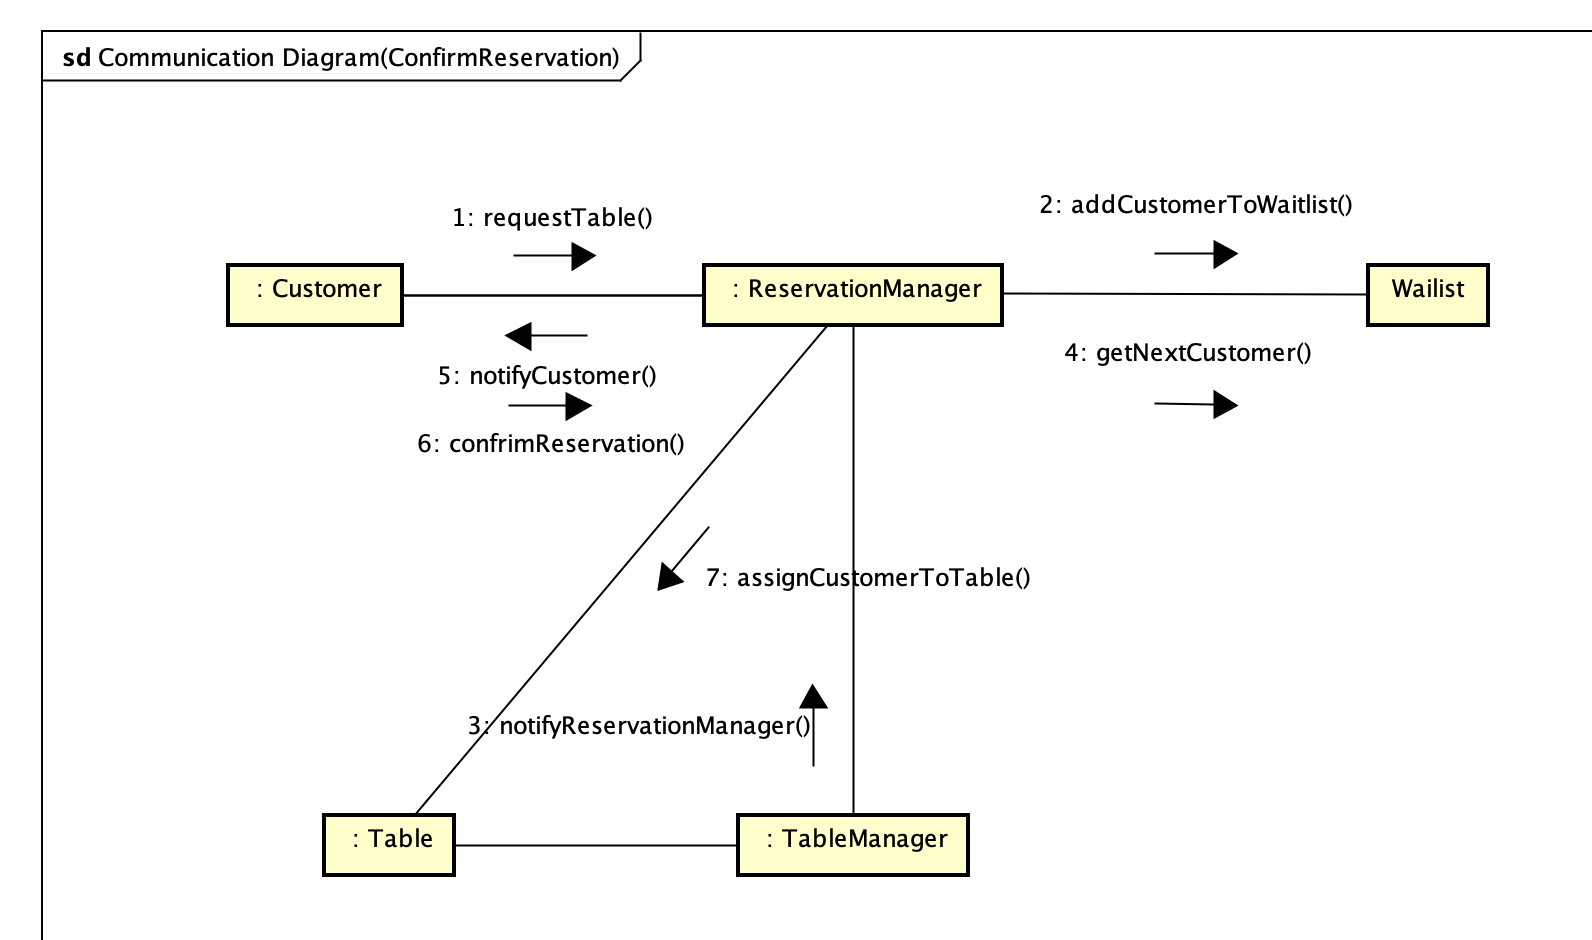
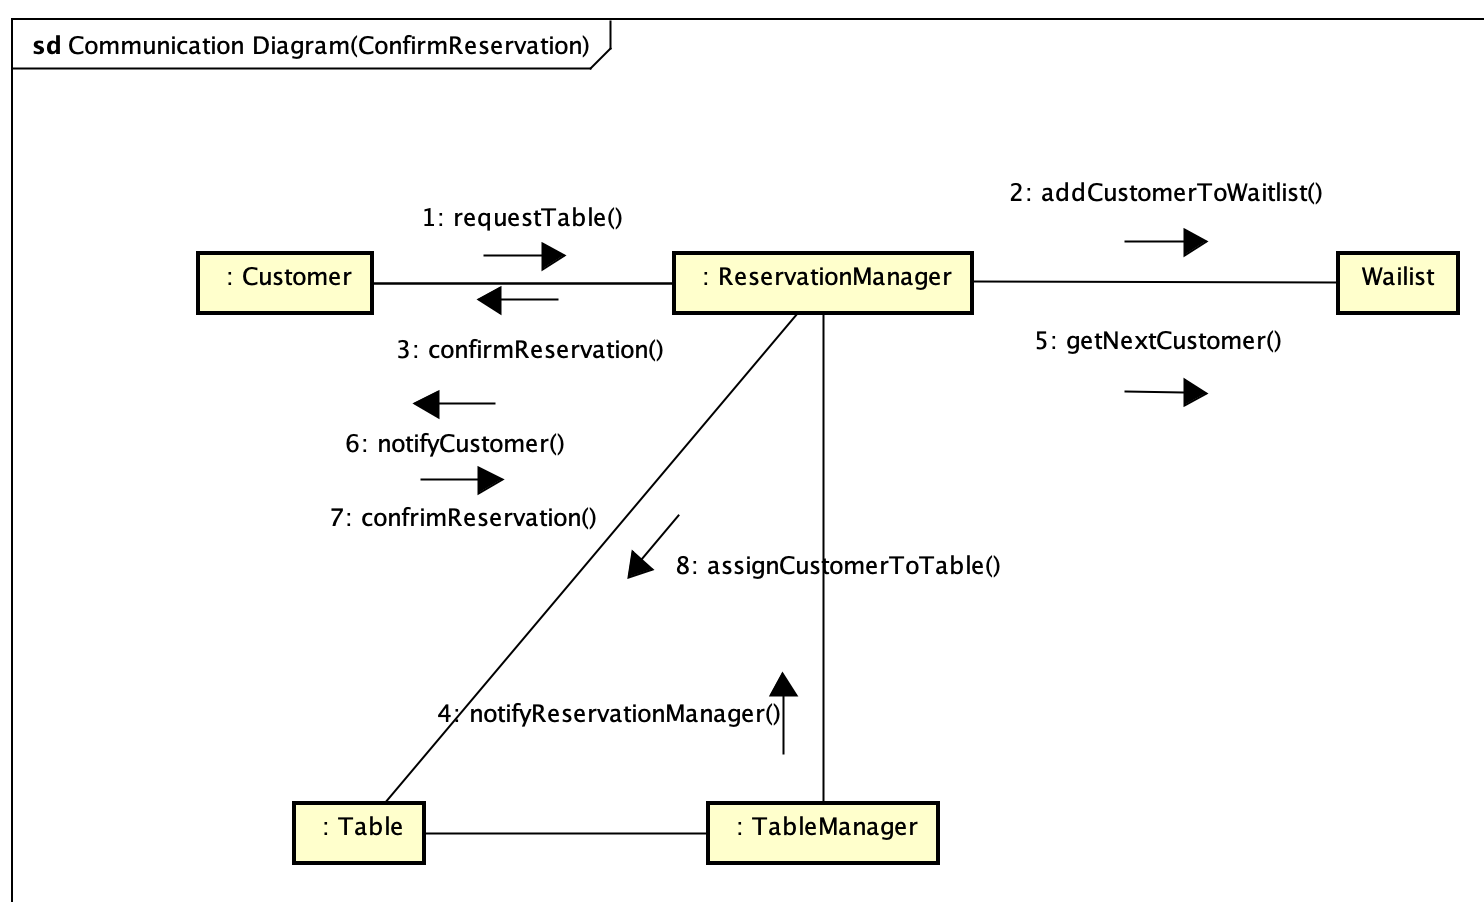
lab4

diff --git a/lab4/output/README.md b/lab4/output/README.md
@@ -16,7 +16,8 @@ ReservationManager
 Responsibilities:  
 Add Customer to Waitlist  
 Delete Customer from Waitlist  
-Notify Customer of when table is available  
+Confirm Customer Reservation(send message)
+Notify Customer when table is available(send message)
 Get Table Availability from Table Manager  
 Get next Customer in waitlist for available table  
 Assign Customer to table  
